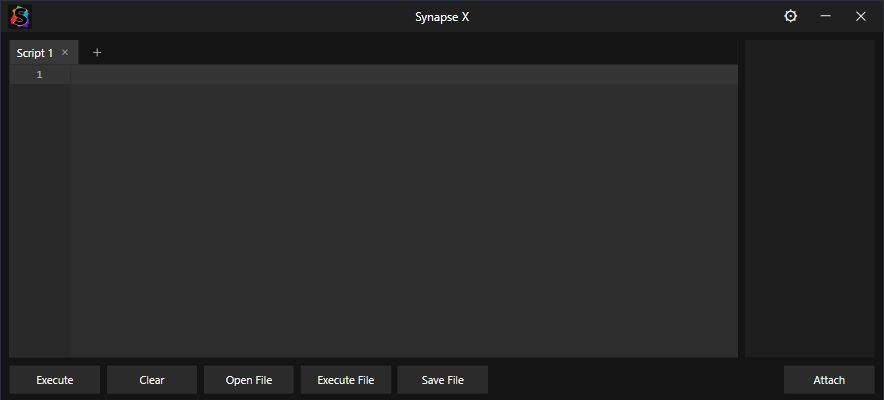
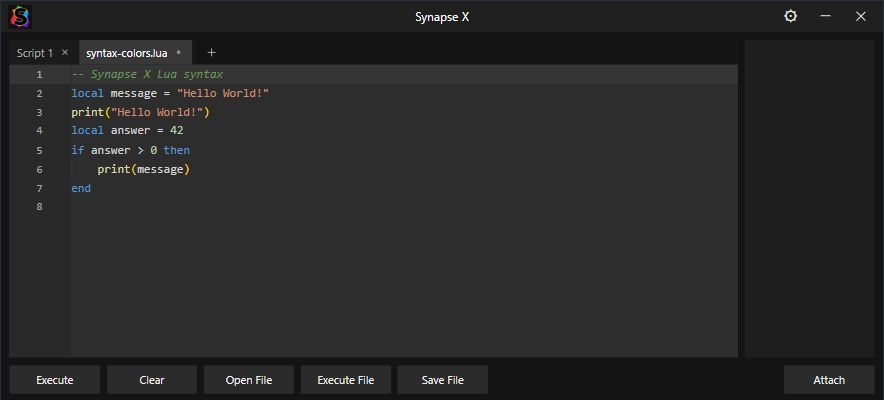
Update Synapse X v1.1.0 effects, syntax colors and branding

Changed region(s): [[0.0, 0.09, 0.3054, 0.48]]

diff --git a/theme/synapse-effects.js b/theme/synapse-effects.js
@@ -1,0 +1,61 @@
+(()=>{
+  const running=new WeakMap(),cleanups=new Set();
+  const reduced=()=>matchMedia('(prefers-reduced-motion: reduce)').matches;
+  const execute={play(button){
+    if(!button)return;running.get(button)?.();if(reduced())return;
+    const rect=button.getBoundingClientRect(),style=getComputedStyle(button),text=button.textContent.trim();
+    if(!text)return;
+    const overlay=document.createElement('div');overlay.className='sx-execute-overlay';overlay.setAttribute('aria-hidden','true');
+    const word=document.createElement('span');word.className='sx-execute-word';word.style.font=style.font;word.style.color=style.color;word.style.letterSpacing=style.letterSpacing;
+    for(const char of text){const span=document.createElement('span');span.textContent=char===' '?'\u00a0':char;word.append(span);}
+    overlay.append(word);document.body.append(overlay);
+    const measure=word.getBoundingClientRect();word.style.left=(rect.left+(rect.width-measure.width)/2)+'px';word.style.top=(rect.top+(rect.height-measure.height)/2)+'px';
+    const letters=[...word.children].map(span=>({text:span.textContent,rect:span.getBoundingClientRect()}));
+    const animations=[],timers=[];let ended=false;
+    const cleanup=()=>{if(ended)return;ended=true;timers.forEach(clearTimeout);animations.forEach(a=>a.cancel());overlay.remove();button.classList.remove('sx-executing');running.delete(button);cleanups.delete(cleanup);};
+    running.set(button,cleanup);cleanups.add(cleanup);button.classList.add('sx-executing');
+    const animate=(el,frames,options)=>{const a=el.animate(frames,options);animations.push(a);return a;};
+    animate(word,[{transform:'translateX(0) skewX(0)',opacity:1},{transform:'translateX(6px) skewX(-9deg)',opacity:1,offset:.45},{transform:'translateX(18px) skewX(0)',opacity:1}],{duration:220,easing:'cubic-bezier(.22,.7,.25,1)',fill:'forwards'});
+    const trail=document.createElement('i');trail.className='sx-execute-trail';trail.style.left=(rect.left+rect.width/2-28)+'px';trail.style.top=(rect.top+rect.height/2)+'px';overlay.append(trail);
+    animate(trail,[{transform:'translateX(-8px) scaleX(.2)',opacity:0},{transform:'translateX(10px) scaleX(1)',opacity:.7,offset:.5},{transform:'translateX(35px) scaleX(.1)',opacity:0}],{duration:280,fill:'forwards'});
+    timers.push(setTimeout(()=>{
+      if(ended)return;word.style.visibility='hidden';
+      for(let index=0;index<letters.length;index++){
+        const letter=letters[index];if(!letter.text.trim())continue;
+        for(let part=0;part<2;part++){
+          const shard=document.createElement('span');shard.className='sx-execute-shard';shard.textContent=letter.text;
+          Object.assign(shard.style,{font:style.font,color:style.color,left:(letter.rect.left+18)+'px',top:letter.rect.top+'px',width:letter.rect.width+'px',height:letter.rect.height+'px',clipPath:part?'polygon(100% 0,100% 100%,0 100%)':'polygon(0 0,100% 0,0 100%)'});overlay.append(shard);
+          const direction=part?1:-1,vx=direction*(9+index*2),spin=direction*(25+index*6),frames=[];
+          for(let step=0;step<=6;step++){const t=step/6;frames.push({offset:t,transform:`translate(${vx*t}px,${-5*t+90*t*t}px) rotate(${spin*t}deg)`,opacity:t<.45?1:Math.max(0,1-(t-.45)/.55)});}
+          animate(shard,frames,{duration:650+index*24,easing:'linear',fill:'forwards'});
+        }
+      }
+    },220));
+    timers.push(setTimeout(cleanup,1250));
+  }};
+  const buttons=new Set();let state='idle',connected=false;
+  const attachSync=()=>{for(const button of buttons){if(!button.isConnected){buttons.delete(button);continue;}button.dataset.sxAttach=state;const label=state==='success'?'Attached successfully':state==='failure'?'Attach failed. Click to retry':state==='busy'?'Attaching, waiting for client confirmation':'Attach';button.setAttribute('aria-label',label);button.setAttribute('title',label);}};
+  const attach={
+    mount(button){if(!button)return;Promise.resolve().then(()=>{buttons.add(button);attachSync();});},
+    begin(button){if(button)buttons.add(button);state='busy';attachSync();},
+    finish(success){state=success?'success':'failure';attachSync();},
+    connection(value){connected=!!value;if(state==='busy')return;if(connected)state='success';else if(state==='success')state='idle';attachSync();}
+  };
+  window.synapseFX={execute,attach};
+  window.synapseConfirmAttach=async(invoke,isConnected,{now=()=>performance.now(),wait=ms=>new Promise(resolve=>setTimeout(resolve,ms)),timeout=30000}={})=>{
+    await invoke();const deadline=now()+timeout;
+    while(!isConnected()){if(now()>=deadline)throw Error('Attach failed: no client confirmation received.');await wait(100);}
+  };
+  window.synapseBrandNotes=input=>{
+    const urls=[];let text=String(input??'').replace(/https?:\/\/[^\s<>\)]+/g,url=>{urls.push(url);return '\u0001SXURL'+(urls.length-1)+'\u0001';});
+    text=text.replace(/potassium|grandassium/gi,'Synapse X');
+    return text.replace(/\u0001SXURL(\d+)\u0001/g,(_,index)=>urls[Number(index)]);
+  };
+  document.addEventListener('visibilitychange',()=>{if(document.hidden)for(const cleanup of [...cleanups])cleanup();});
+  const native=window.__TAURI_INTERNALS__;let titleBusy=false;
+  async function syncTitle(){
+    document.title='Synapse X';if(!native||titleBusy)return;titleBusy=true;
+    try{const label=native.metadata?.currentWindow?.label||'main';const current=await native.invoke('plugin:window|title',{label});if(current!=='Synapse X')await native.invoke('plugin:window|set_title',{label,value:'Synapse X'});}catch{}finally{titleBusy=false;}
+  }
+  void syncTitle();if(native){const timer=setInterval(syncTitle,2000);addEventListener('focus',syncTitle);addEventListener('pagehide',()=>clearInterval(timer),{once:true});}
+})();

diff --git a/theme/synapse-x.css b/theme/synapse-x.css
@@ -28,3 +28,10 @@ button,input,select,textarea{font-family:inherit}button:focus-visible,input:focu
 .editor-area .content>.toolbar{display:none!important}.sidebar .empty,.sidebar .section:has(.empty) .section-head{display:none!important}
 
 .titlebar.is-bare .synapse-settings{display:none!important}
+.sx-execute-overlay{position:fixed;inset:0;pointer-events:none;z-index:20000;overflow:hidden}.sx-execute-word,.sx-execute-shard{position:absolute;display:inline-block;white-space:pre;line-height:normal;pointer-events:none}.sx-execute-shard{transform-origin:50% 70%;will-change:transform,opacity}.sx-execute-word>span{display:inline-block}.sx-execute-trail{position:absolute;display:block;width:48px;height:1px;transform-origin:left;background:linear-gradient(90deg,transparent,#e5efff);box-shadow:0 0 5px #c7defb88}
+.synapse-footer button.sx-executing{color:transparent!important}
+.synapse-attach{position:relative}.synapse-attach[data-sx-attach=success],.synapse-attach[data-sx-attach=failure]{color:transparent!important}
+.synapse-attach[data-sx-attach=success]::after,.synapse-attach[data-sx-attach=failure]::after{position:absolute;inset:0;display:grid;place-items:center;color:#f4fff7;font:inherit;pointer-events:none}.synapse-attach[data-sx-attach=success]::after{content:"Attached"}.synapse-attach[data-sx-attach=failure]::after{content:"Attach failed"}
+.synapse-footer .synapse-attach[data-sx-attach=success]{background:#126a40;border-color:#42c785;animation:sx-attach-green 2.4s ease-in-out infinite}.synapse-footer .synapse-attach[data-sx-attach=failure]{background:#7d2633;border-color:#da6678;animation:sx-attach-red 2.4s ease-in-out infinite}
+@keyframes sx-attach-green{0%,100%{background:#126a40;box-shadow:0 0 0 0 #36b97700}50%{background:#18804f;box-shadow:0 0 9px 1px #36b97744}}@keyframes sx-attach-red{0%,100%{background:#7d2633;box-shadow:0 0 0 0 #c94a6100}50%{background:#963141;box-shadow:0 0 9px 1px #c94a6138}}
+@media(prefers-reduced-motion:reduce){.synapse-footer .synapse-attach[data-sx-attach]{animation:none!important}.sx-execute-overlay{display:none}}

diff --git a/README.md b/README.md
@@ -10,9 +10,23 @@ This project is not affiliated with the original Synapse X developers.
 The preview shows the actual frontend components in a browser test harness.
 The Windows executable and a live Roblox connection have not been tested.
 
+## Version 1.1.0
+
+- Synapse X release-note text, native display-name updates, and a window-title guard.
+- Synapse X is the only theme; other palettes, custom-theme controls, and the
+  assistant entry points are removed.
+- Colored Lua/Luau syntax: blue keywords, yellow functions, orange strings, green
+  comments/numbers, and cyan types. Errors/warnings and autocomplete are enabled
+  on upgrade using the existing native Luau checker.
+- Execute swishes right, splits into letter fragments, falls with gravity, and
+  restores. The effect never delays or duplicates the execution request.
+- Attach waits for a confirmed client connection before pulsing green. A rejected
+  request or confirmation timeout pulses red. A disconnect clears green feedback.
+- Reduced-motion preferences disable decorative motion while preserving feedback.
+
 ## Install
 
-1. Download `Synapse-X-windows-x64.zip` from the latest release's **Assets**.
+1. Download `Synapse-X-v1.1.0-windows-x64.zip` from the latest release's **Assets**.
 2. Extract every file into a new folder.
 3. Open **Synapse X.exe**, keeping the three Microsoft runtime DLLs beside it.
 
@@ -43,7 +57,7 @@ The release ZIP is the runnable package. GitHub's source-code ZIP contains these
 docs and customization assets, not the full native application source.
 Compare the downloaded package's SHA-256 with `SHA256SUMS.txt` on the same release.
 
-The theme stylesheet and icon are available in [theme/](theme/). Visible branding
+The theme stylesheet, feedback effects and icon are available in [theme/](theme/). Visible branding
 and frontend storage identifiers use Synapse X naming; existing backend service
 and documentation URLs remain compatible. The vendor GUI update check is disabled
 so it cannot overwrite this customized interface.

diff --git a/CHANGELOG.md b/CHANGELOG.md
@@ -1,0 +1,17 @@
+# Changelog
+
+## 1.1.0
+
+- Rebrand runtime release-note text to Synapse X while preserving link targets.
+- Patch native display-name strings and keep the window caption set to Synapse X.
+- Restrict the theme list to Synapse X and remove custom-theme controls.
+- Remove assistant entry points, its panel and shortcut, and restored assistant tabs.
+- Add colored Lua/Luau tokens and enable existing diagnostics/autocomplete on upgrade.
+- Animate Execute with a rightward swish, fractured glyphs, and accelerated fall.
+- Show pulsing green Attach feedback after confirmed connection; red on failure.
+- Clear green feedback on disconnection and respect reduced-motion preferences.
+
+## 1.0.0
+
+- Initial classic gray layout, right-hand scripts pane and six-button action row.
+- Synapse X window/executable/product branding and a dark-background logo.
